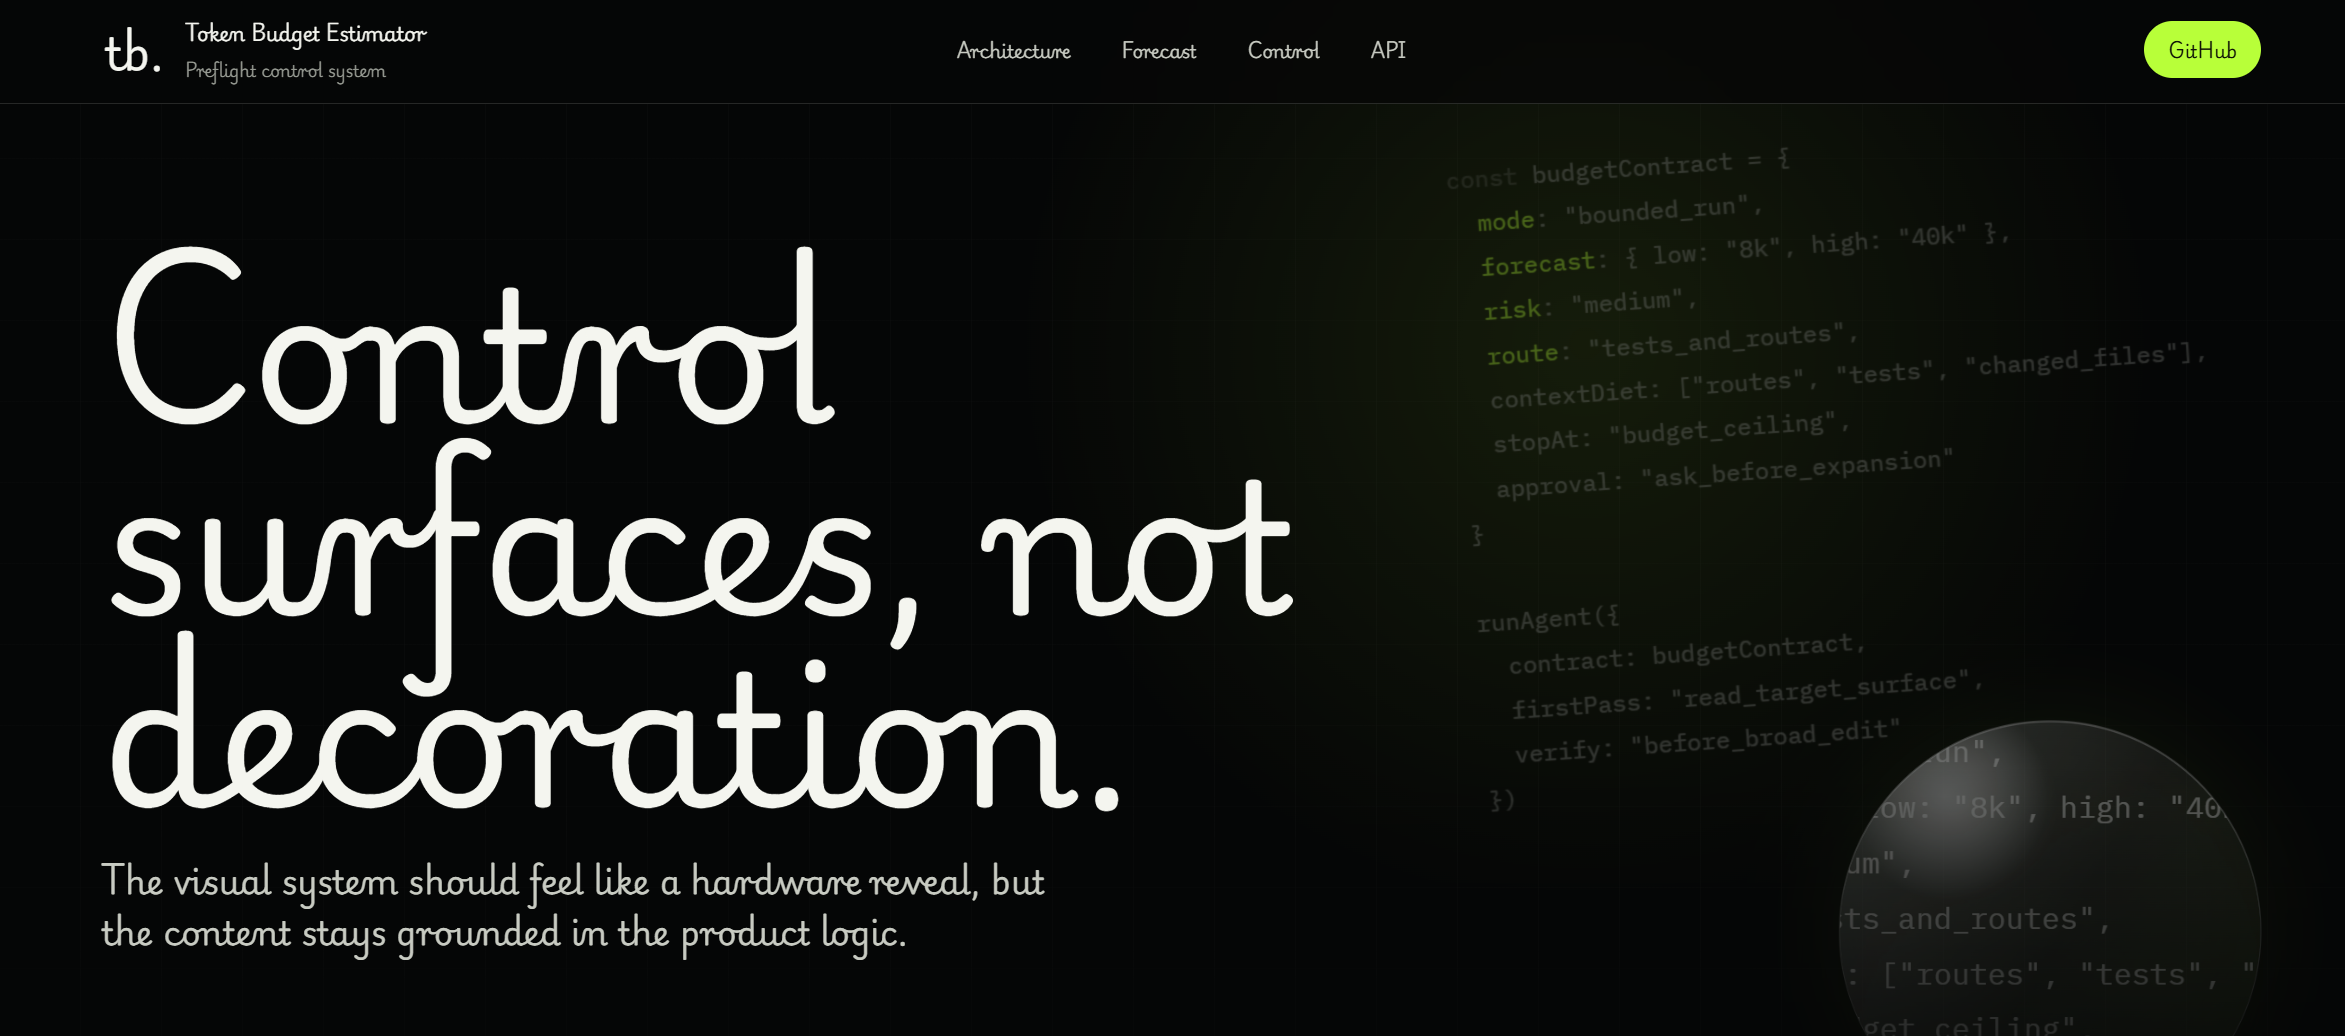
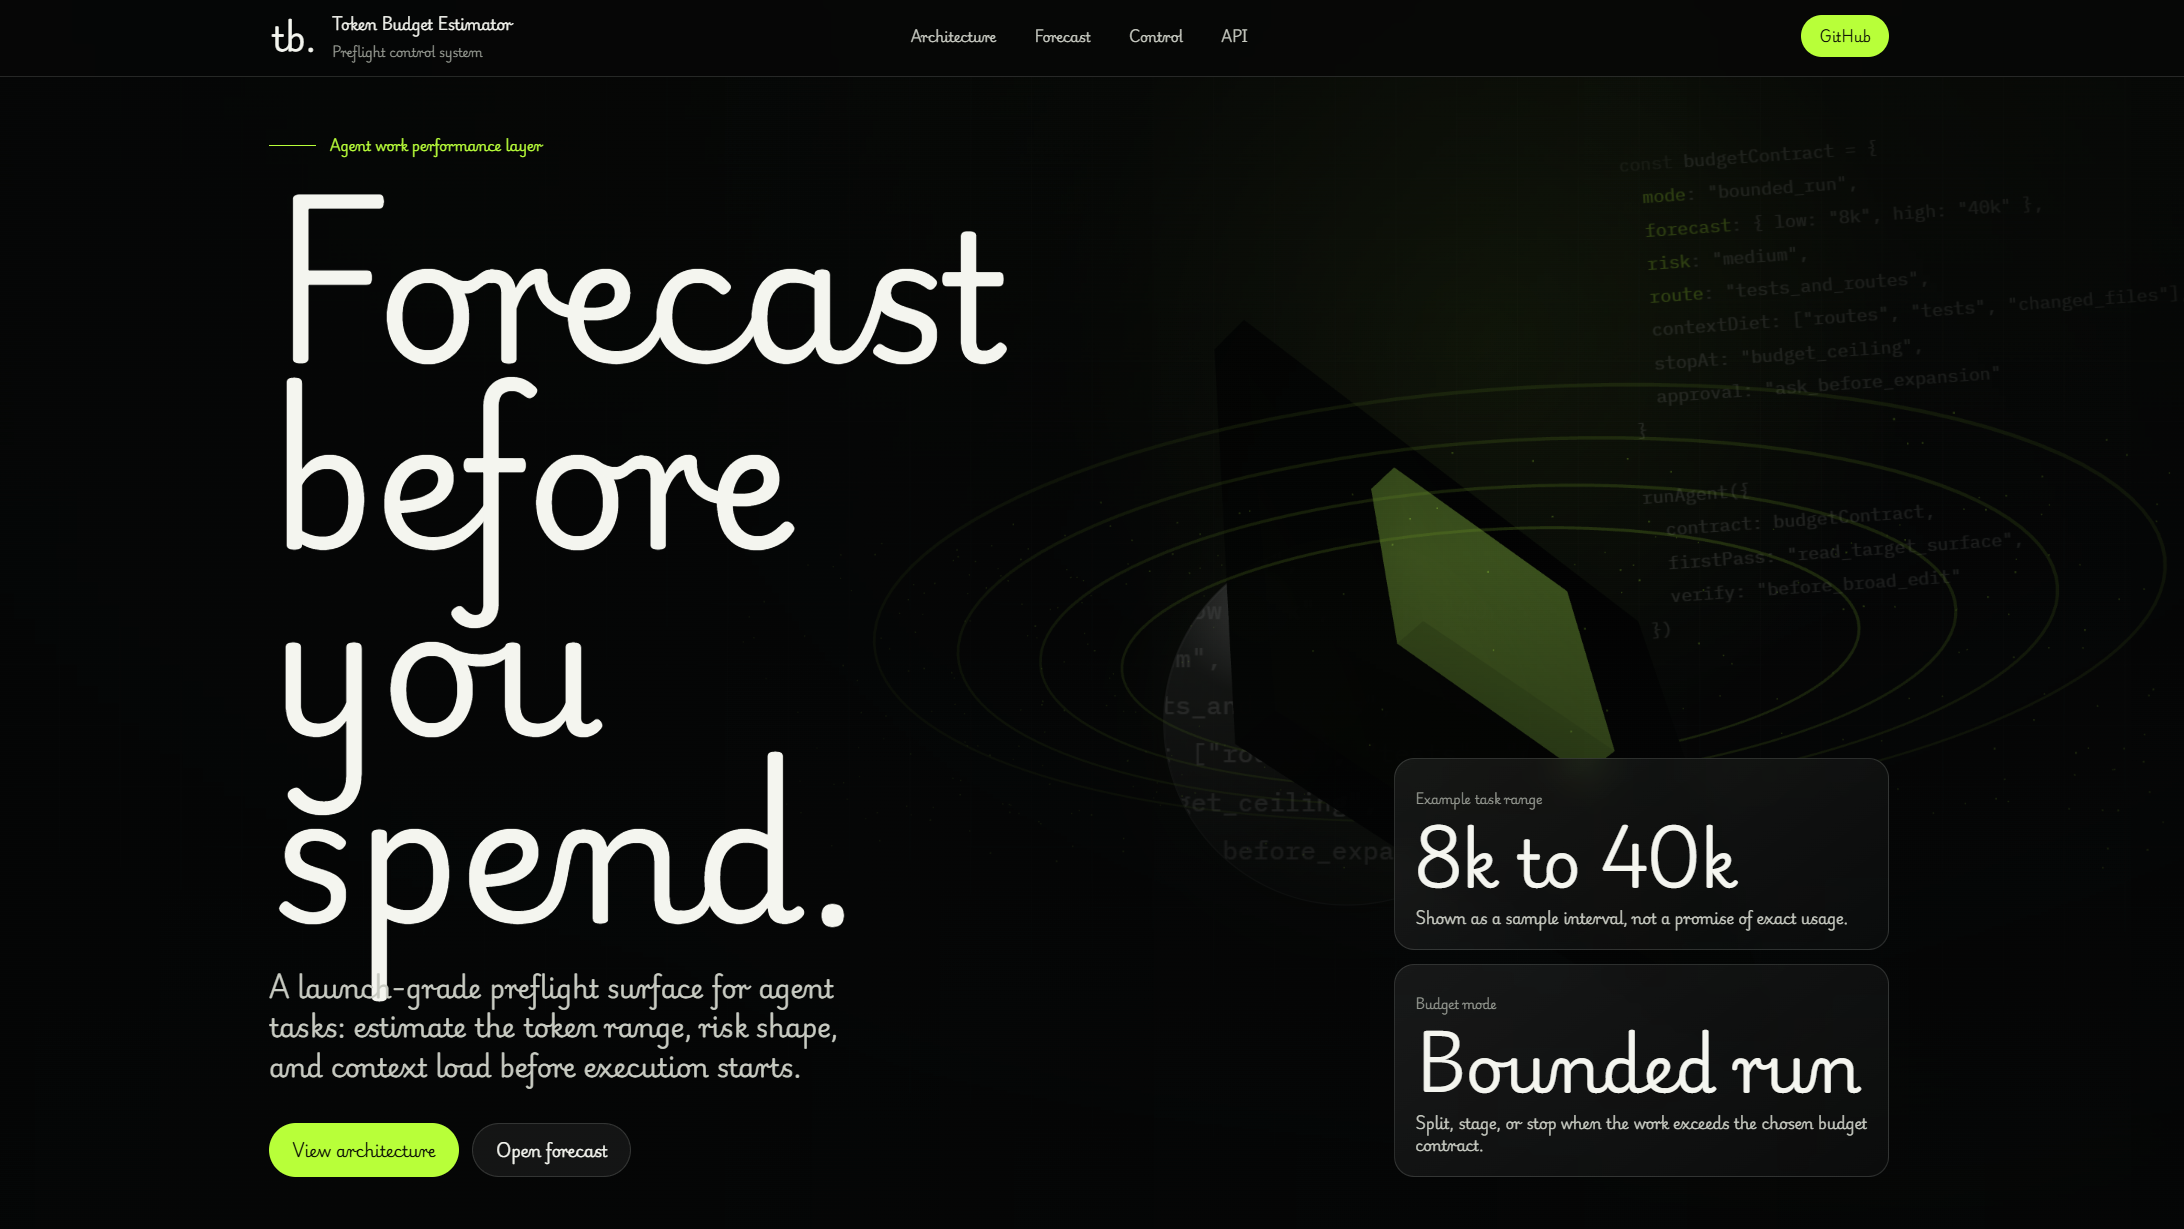
Update homepage scale and README preview

diff --git a/site/index.html b/site/index.html
@@ -30,6 +30,7 @@
       --code: "IBM Plex Mono", "Consolas", monospace;
       --ease: cubic-bezier(.16, 1, .3, 1);
       --max: 1440px;
+      --desktop-scale: 0.75;
     }
 
     * {
@@ -52,6 +53,12 @@
       font-family: var(--body);
       font-weight: 400;
       overflow-x: hidden;
+    }
+
+    @media (min-width: 900px) {
+      body {
+        zoom: var(--desktop-scale);
+      }
     }
 
     strong,

diff --git a/README.md b/README.md
@@ -30,7 +30,7 @@ This repository includes a product home page at `site/index.html`.
 
 ![Token Budget Estimator home page](assets/homepage.png)
 
-官网：[https://yuk1207.github.io/token-budget-estimator/](https://yuk1207.github.io/token-budget-estimator/)
+Official Website: [https://yuk1207.github.io/token-budget-estimator/](https://yuk1207.github.io/token-budget-estimator/)
 
 Use it as the GitHub Pages entry point and public project home page. It introduces the skill's forecast, ROI, budget contract, and context diet workflow without requiring a backend.
 